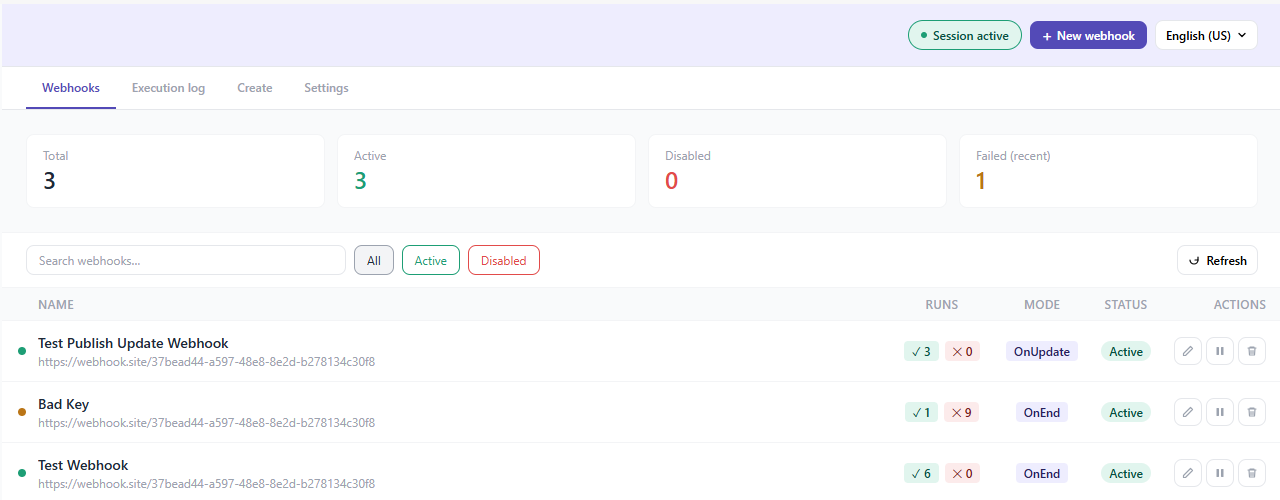
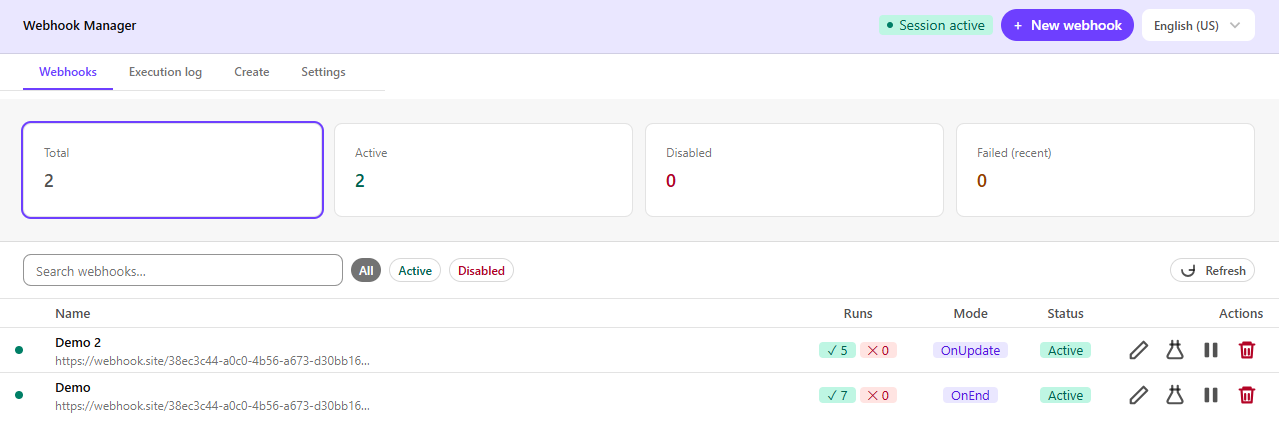
Fixing Readme

diff --git a/README.md b/README.md
@@ -13,10 +13,13 @@ A browser-based admin tool for managing **Experience Edge webhooks** on Sitecore
   - [Webhooks tab](#webhooks-tab)
   - [Creating a webhook](#creating-a-webhook)
   - [Editing a webhook](#editing-a-webhook)
+  - [Unsaved changes protection](#unsaved-changes-protection)
   - [Enabling and disabling](#enabling-and-disabling)
   - [Deleting a webhook](#deleting-a-webhook)
+- [Testing a webhook](#testing-a-webhook)
 - [Execution log](#execution-log)
 - [Filtering and search](#filtering-and-search)
+- [Session resilience](#session-resilience)
 - [Internationalization](#internationalization)
 - [Security model](#security-model)
 - [Architecture](#architecture)
@@ -33,10 +36,13 @@ The Webhook Admin widget gives SitecoreAI teams a single place to:
 | **View** all webhooks for your tenant | Status, execution mode, recent run history |
 | **Create** new webhooks | Full form with validation — name, URI, method, body, custom headers |
 | **Edit** webhooks inline | Expand any row to update without leaving the list |
+| **Test** webhooks live | Send a real request to the endpoint (with your custom headers) and inspect the response |
 | **Enable / Disable** webhooks | Confirmation dialog before making changes |
 | **Delete** webhooks | Irreversible action guarded by a confirmation dialog |
 | **Browse execution history** | Cross-webhook log sorted newest-first, up to 50 entries |
-| **Filter and search** | Filter by Active / Disabled, search by name or URI |
+| **Filter and search** | Filter by Active / Disabled, search by name or URI, or click a stat card |
+
+Throughout, the widget protects your work — it **warns before discarding unsaved edits**, guides you with **context-aware empty states** when you're not connected or have no results, and **recovers gracefully** when your session expires.
 
 The widget connects directly to the [Edge Admin API](https://doc.sitecore.com/sai/en/developers/sitecoreai/sitecore-experience-manager/webhook-objects.html) using a short-lived JWT that is fetched from Sitecore's OAuth endpoint at connect time and stored only in `sessionStorage` for the duration of the browser tab.
 
@@ -65,16 +71,22 @@ Before you can manage webhooks, you must establish a session. Click the **Settin
 | **Client ID** | Your Sitecore OAuth client ID. |
 | **Client Secret** | Your OAuth client secret. Hidden by default; click the eye icon to reveal. |
 
-Click **Connect** to exchange your credentials for a short-lived JWT. The credentials are discarded immediately after the token is received — only the JWT is retained (in `sessionStorage`).
+Click **Connect** to exchange your credentials for a short-lived JWT — or simply press **Enter** from either field. The credentials are discarded immediately after the token is received — only the JWT is retained (in `sessionStorage`).
 
 ![A picture of the Session Creation Screen](readme_assets/New_Session.png)
 
 Once connected:
 - The status pill in the header turns **green** (Session active)
 - The **Webhooks** tab loads your webhook list automatically
-- The **Create** tab and **+ New webhook** button become available
+- The **Execution log** and **Create** tabs and the **+ New webhook** button become available
 
 To end your session manually, click **Clear session**. The JWT is also cleared automatically when the browser tab is closed.
+
+### Before you connect
+
+Until a session is active, the widget guides you rather than showing an empty list. The **Webhooks** tab displays a prompt with a **Go to Settings** shortcut, and the **Execution log** and **Create** tabs stay hidden — there is nothing to act on without a connection.
+
+![The connect prompt shown before a session is established](readme_assets/Connect_Prompt.png)
 
 ---
 
@@ -100,7 +112,17 @@ Click the `✓ / ✕` count badges on any row to expand an inline panel showing 
 
 **Summary cards**
 
-The four cards at the top always reflect the full unfiltered list, so your overall health is visible regardless of any active search or filter.
+The four cards at the top always reflect the full unfiltered list, so your overall health is visible regardless of any active search or filter. The **Total**, **Active**, and **Disabled** cards are also clickable shortcuts — selecting one applies the matching list filter (the active card is highlighted).
+
+**Empty states**
+
+The list area adapts to context instead of showing a generic "nothing here":
+
+| Situation | What you see |
+|---|---|
+| Not connected | A connect prompt with a **Go to Settings** button |
+| Connected, no webhooks yet | A **+ New webhook** call to action |
+| A search/filter matched nothing | A **Clear filters** shortcut (the stat cards still show your real totals) |
 
 ---
 
@@ -113,10 +135,10 @@ The four cards at the top always reflect the full unfiltered list, so your overa
 |---|---|---|
 | **Name** | Yes | Human-readable label for the webhook |
 | **URI** | Yes | Must be a valid `https://` URL |
-| **HTTP Method** | Yes | `POST` (default) or `GET` |
+| **HTTP Method** | Yes | `POST` (default), or `GET` — `GET` is only available in `OnEnd` mode |
 | **Execution mode** | Yes | See table below |
-| **Body** | No | JSON payload sent with `OnEnd` requests |
-| **Body include** | No | JSON filter applied to `OnUpdate` payloads — must be valid JSON |
+| **Body** | No | JSON payload sent with `OnEnd` + `POST` requests |
+| **Body include** | No | JSON merged into `OnUpdate` payloads — must be valid JSON |
 | **Custom headers** | No | Add any number of `key: value` header pairs |
 | **Created by** | Auto | Populated from your Sitecore user account — read-only |
 
@@ -124,8 +146,14 @@ The four cards at the top always reflect the full unfiltered list, so your overa
 
 | Mode | When it fires | Body field |
 |---|---|---|
-| `OnEnd` | After a publishing job finishes | **Body** — static JSON payload sent with every call |
-| `OnUpdate` | When specific content entities are updated | **Body include** — JSON filter that narrows which updates trigger the call |
+| `OnEnd` | After a publishing job finishes | **Body** — static JSON payload sent with every `POST` call |
+| `OnUpdate` | When specific content entities are updated | **Body include** — JSON merged into the request body |
+
+The body field follows the selected mode and method, so you only ever see the field that applies:
+
+- `OnEnd` + `POST` → **Body** textarea
+- `OnUpdate` → **Body include** textarea (method is forced to `POST`, since `OnUpdate` cannot use `GET`)
+- `OnEnd` + `GET` → no body field (and none is sent)
 
 3. Click **Create webhook**. You are returned to the Webhooks list automatically.
 
@@ -137,13 +165,23 @@ Click the **pencil icon** on any webhook row. An inline form expands below the r
 
 Only one webhook can be expanded for editing at a time. Opening a second row collapses the previous one.
 
+> Editing a custom header value marks the form as changed, but simply clicking a header's edit icon does **not** — intermediate UI actions never trigger a false "unsaved changes" warning.
+
+---
+
+### Unsaved changes protection
+
+The widget will not silently throw away work in progress. While you have **unsaved edits** in a create or edit form, any action that would navigate away — clicking **Cancel**, switching tabs, opening another row, or jumping to **Settings** — first shows a confirmation dialog so you can keep editing or deliberately discard.
+
+![Unsaved changes confirmation dialog](readme_assets/Unsaved_Changes.png)
+
 ---
 
 ### Enabling and disabling
 
 Click the **pause icon** (active webhooks) or **play icon** (disabled webhooks) to toggle state. A confirmation dialog appears before any change is made.
 
-![Dialog box for disabling a webhook](readme_assets/Disable_webhook.png)
+![Dialog box for disabling a webhook](readme_assets/Disable_Webhook.png)
 
 ---
 
@@ -153,9 +191,34 @@ Click the **trash icon** on any row. A confirmation dialog warns that the action
 
 ---
 
+## Testing a webhook
+
+Click the **flask icon** on any row to open the **Test webhook** dialog and send a real request to the endpoint — without waiting for a publish or content update to trigger it.
+
+![The test webhook dialog showing the request preview and a successful response](readme_assets/Test_Webhook.png)
+
+The dialog builds a representative request for you:
+
+| Element | Behaviour |
+|---|---|
+| **Method & URI** | Shown exactly as configured on the webhook |
+| **Custom headers** | Every configured header is listed and **sent with the request** |
+| **Request body** | Editable before sending. `OnEnd` webhooks use the configured body; `OnUpdate` webhooks get a sample `WebHookRequest` with the webhook's **Body include** merged in. `GET` webhooks send no body. |
+
+Click **Send test** to fire the request. The response panel reports the outcome:
+
+- **Success (2xx)** — a green status badge, the round-trip duration, and the response body.
+- **Failure** — a red status badge with the duration, and the **error message** parsed from the response (the widget surfaces the `error.message` / `message` field from a JSON error body rather than dumping the raw payload).
+
+![The test webhook dialog showing a parsed error message](readme_assets/Test_Webhook_Error.png)
+
+> Test requests are proxied through a server-side Next.js route (`/api/test-webhook`) to avoid browser CORS restrictions. The proxy only allows `https://` targets, enforces a 10-second timeout, and truncates large response bodies.
+
+---
+
 ## Execution log
 
-The **Execution log** tab provides a unified, chronological view of recent runs across **all** webhooks — useful for diagnosing failures without opening each webhook individually.
+The **Execution log** tab provides a unified, chronological view of recent runs across **all** webhooks — useful for diagnosing failures without opening each webhook individually. The tab is only available while you have an active session.
 
 ![List showing recent webhook exection](readme_assets/Execution_Log.png)
 
@@ -176,10 +239,19 @@ The Webhooks tab toolbar provides three ways to narrow the list:
 | **All** button | Clears any status filter (shows all webhooks) |
 | **Active** button | Shows only webhooks where `disabled = false` |
 | **Disabled** button | Shows only webhooks where `disabled = true` |
+| **Stat cards** | Clicking **Total**, **Active**, or **Disabled** applies the matching filter |
 
 Search and status filter work together — e.g. searching for `cdn` while the **Active** filter is selected shows only active webhooks whose name or URI contains "cdn".
 
 The summary stat cards at the top always reflect the **full unfiltered count**, not the filtered view.
+
+---
+
+## Session resilience
+
+The JWT issued at connect time is short-lived. Rather than surfacing a raw `401`/`403` API error when it expires, the widget detects the rejection and shows a clear, localized message prompting you to reconnect in **Settings**. This applies to every operation — listing, editing, enabling/disabling, deleting, and loading a webhook for testing — so an expired session never leaves you staring at a cryptic error.
+
+To resume, open **Settings** and click **Connect** again.
 
 ---
 
@@ -222,14 +294,16 @@ The UI is fully translated into 11 languages. Switch language using the **langua
 src/
 ├── app/
 │   ├── api/
-│   │   └── token/
-│   │       └── route.ts          ← Server-side OAuth proxy (avoids CORS)
-│   ├── page.tsx                  ← Root page: tab state, fetch logic, filter state
+│   │   ├── token/
+│   │   │   └── route.ts          ← Server-side OAuth proxy (avoids CORS)
+│   │   └── test-webhook/
+│   │       └── route.ts          ← Server-side proxy for live webhook tests (https-only, 10s timeout)
+│   ├── page.tsx                  ← Root page: tab state, fetch logic, filter state, empty/onboarding states
 │   └── layout.tsx
 ├── components/
 │   └── webhooks/
-│       ├── WebhookList.tsx       ← List rows, inline edit, enable/disable/delete dialogs
-│       ├── WebhookForm.tsx       ← Shared create / edit form with validation
+│       ├── WebhookList.tsx       ← List rows, inline edit, enable/disable/delete/test dialogs
+│       ├── WebhookForm.tsx       ← Shared create / edit form with validation + dirty tracking
 │       ├── ExecutionLog.tsx      ← Cross-webhook run history table
 │       └── SettingsPanel.tsx     ← OAuth connect / disconnect UI
 ├── context/
@@ -237,12 +311,14 @@ src/
 ├── hooks/
 │   └── useMarketplaceClient.ts   ← Marketplace SDK init + host.user resolution
 ├── lib/
-│   ├── api.ts                    ← Edge Admin API calls (list, create, update, delete)
+│   ├── api.ts                    ← Edge Admin API calls (list, get, create, update, enable/disable, delete, test) + SessionExpiredError
 │   ├── i18n.ts                   ← Translation strings for 11 languages
 │   └── session.ts                ← sessionStorage read/write/clear helpers
 └── types/
     └── webhook.ts                ← Types mirroring the Edge Admin API objects exactly
 ```
+
+`api.ts` throws a typed `SessionExpiredError` on a `401`/`403`, which the UI maps to the friendly reconnect message described under [Session resilience](#session-resilience).
 
 ### Data flow
 
@@ -254,8 +330,12 @@ Browser
   │                                                 returns { access_token }
   │                              JWT saved to sessionStorage
   │
-  └── Webhooks / Log tab
-        └── fetch() with Bearer header  →  edge.sitecorecloud.io/api/admin/v1/webhooks
+  ├── Webhooks / Log tab
+  │     └── fetch() with Bearer header  →  edge.sitecorecloud.io/api/admin/v1/webhooks
+  │
+  └── Test webhook dialog
+        └── POST /api/test-webhook  →  Next.js route  →  target endpoint (https only)
+                                        returns { status, statusText, durationMs, body }
 ```
 
 ---